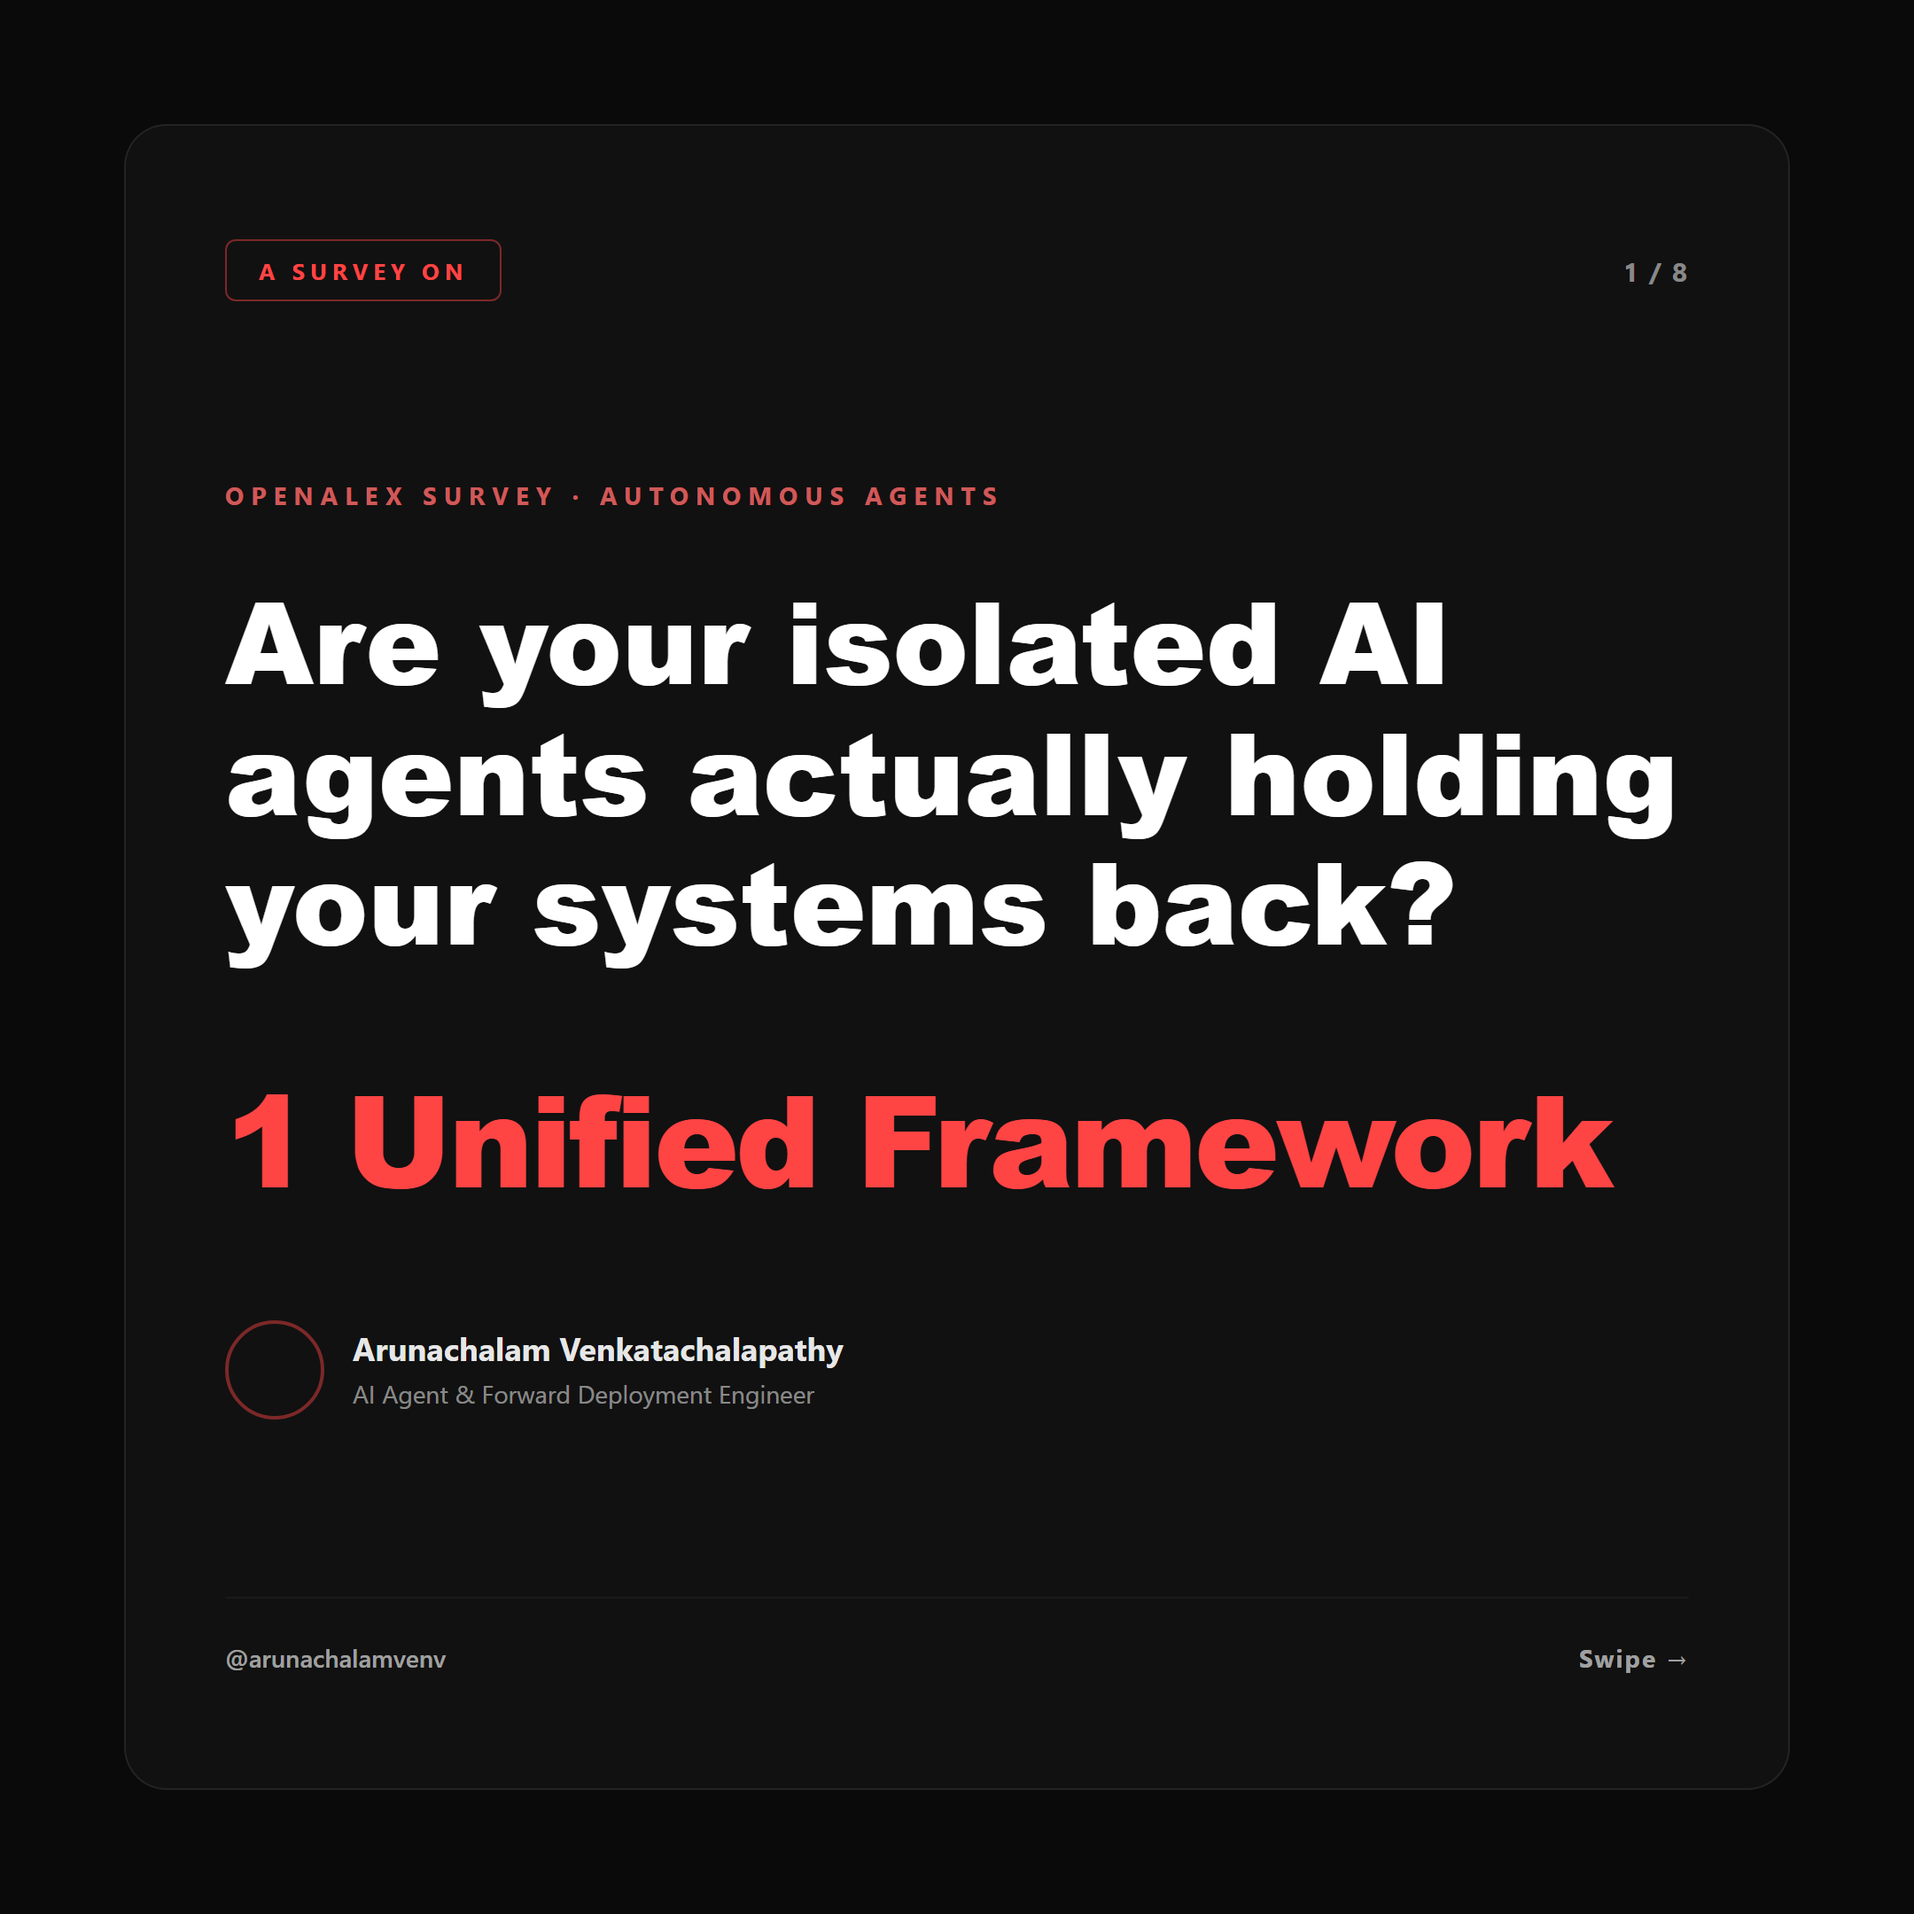
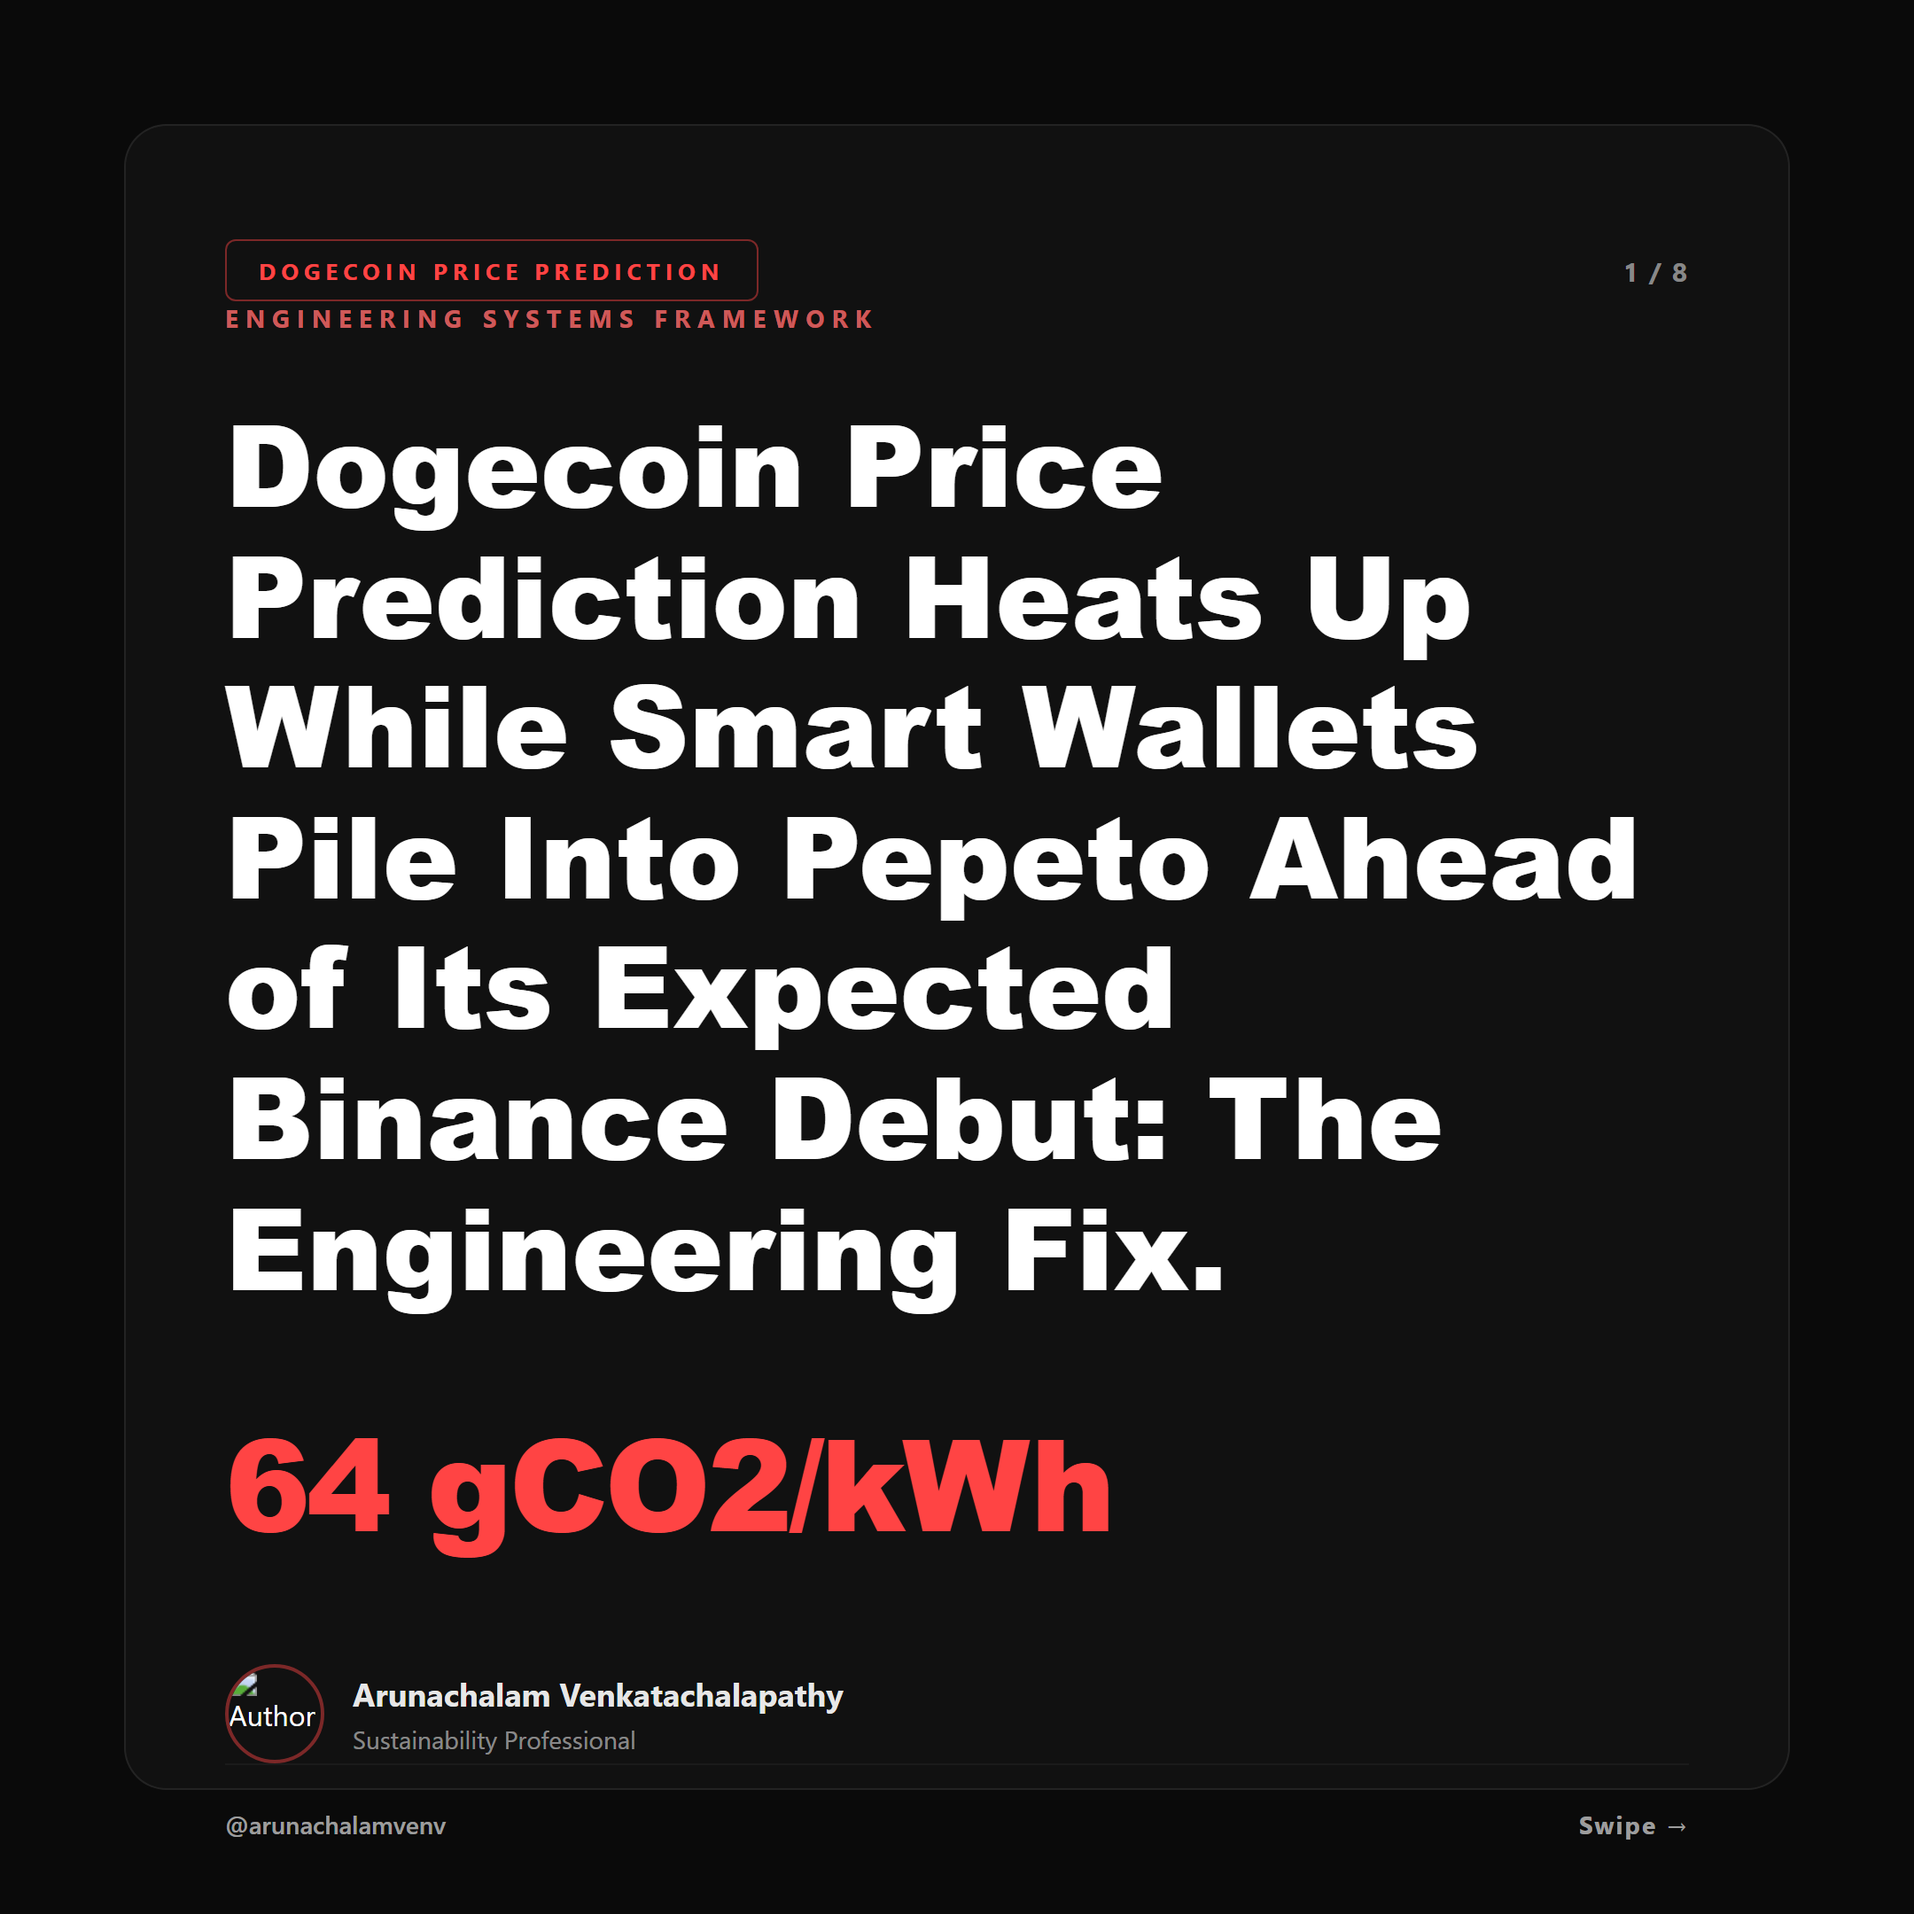
feat: add NewsData.io live breaking news as fallback source in cascade

diff --git a/src/research_engine.py b/src/research_engine.py
@@ -428,7 +428,7 @@ class ResearchEngine:
             f"🔍 Day {day_idx + 1}/21 [{config['pillar']}]: {config['theme']}"
         )
 
-        for source_spec in config["source_cascade"]:
+        for source_spec in config["source_cascade"] + [{"source_id": "newsdata", "queries": [""]}]:
             source_id = source_spec["source_id"]
             queries = list(source_spec.get("queries", [""]))
             random.shuffle(queries)
@@ -483,6 +483,7 @@ class ResearchEngine:
             "github_trending":    lambda: self.fetch_github_trending(spec.get("topic", "llm")),
             "papers_with_code":   lambda: self.fetch_papers_with_code(query),
             "openalex":           lambda: self.fetch_openalex(query),
+            "newsdata":           lambda: self.fetch_newsdata(query),
             # CleanTech sources
             "arxiv_eess_sy":      lambda: self.fetch_arxiv("eess.SY", query),
             "arxiv_physics_chem": lambda: self.fetch_arxiv("physics.chem-ph", query),
@@ -558,6 +559,41 @@ class ResearchEngine:
             )
 
         return abstract
+
+
+    # ── Source: NewsData.io ───────────────────────────────────────────────────
+
+    def fetch_newsdata(self, query: str) -> list:
+        log.info(f"[NewsData] Fetching latest live news")
+        try:
+            url = (
+                "https://newsdata.io/api/1/latest?"
+                "apikey=pub_8d8ba5055eb94aa8b97a8c90472ba54d"
+                "&country=in,sg,us,de,fr"
+                "&language=en,ta,fr,hi,ja"
+                "&category=environment,technology,science,business,breaking"
+                "&removeduplicate=1"
+            )
+            req = urllib.request.Request(url, headers={"User-Agent": "EcoPulseLive/8.0"})
+            with urllib.request.urlopen(req, timeout=15) as r:
+                data = json.loads(r.read().decode("utf-8"))
+            items = []
+            for article in data.get("results", []):
+                title = article.get("title", "")
+                desc = article.get("description", "") or article.get("content", "") or ""
+                if not title or not desc:
+                    continue
+                items.append({
+                    "source": "NewsData (Live Breaking News)",
+                    "title": title,
+                    "url": article.get("link", ""),
+                    "id": f"newsdata_{article.get('article_id', title[:30].replace(' ', '_'))}",
+                    "abstract": desc,
+                })
+            return items
+        except Exception as e:
+            log.warning(f"  [NewsData] error: {e}")
+            return []
 
     # ── Source 01: Semantic Scholar ───────────────────────────────────────────
 
